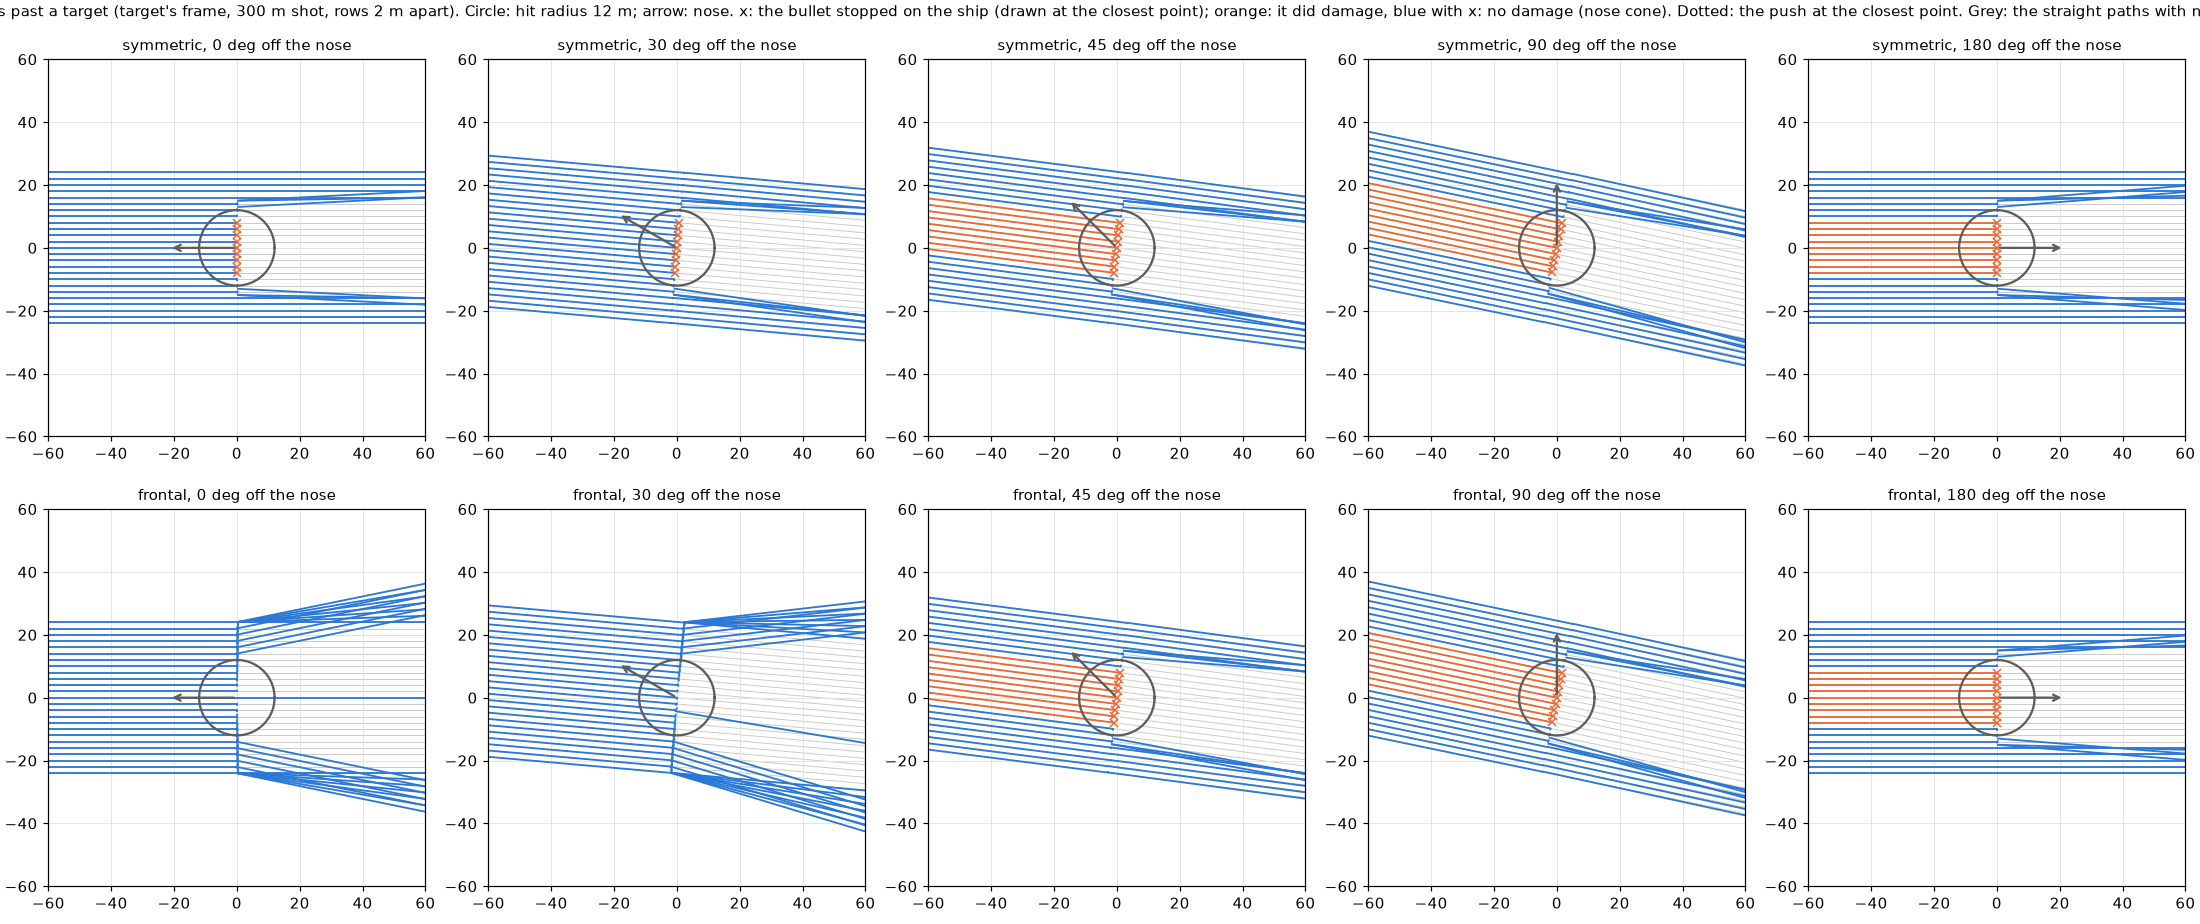
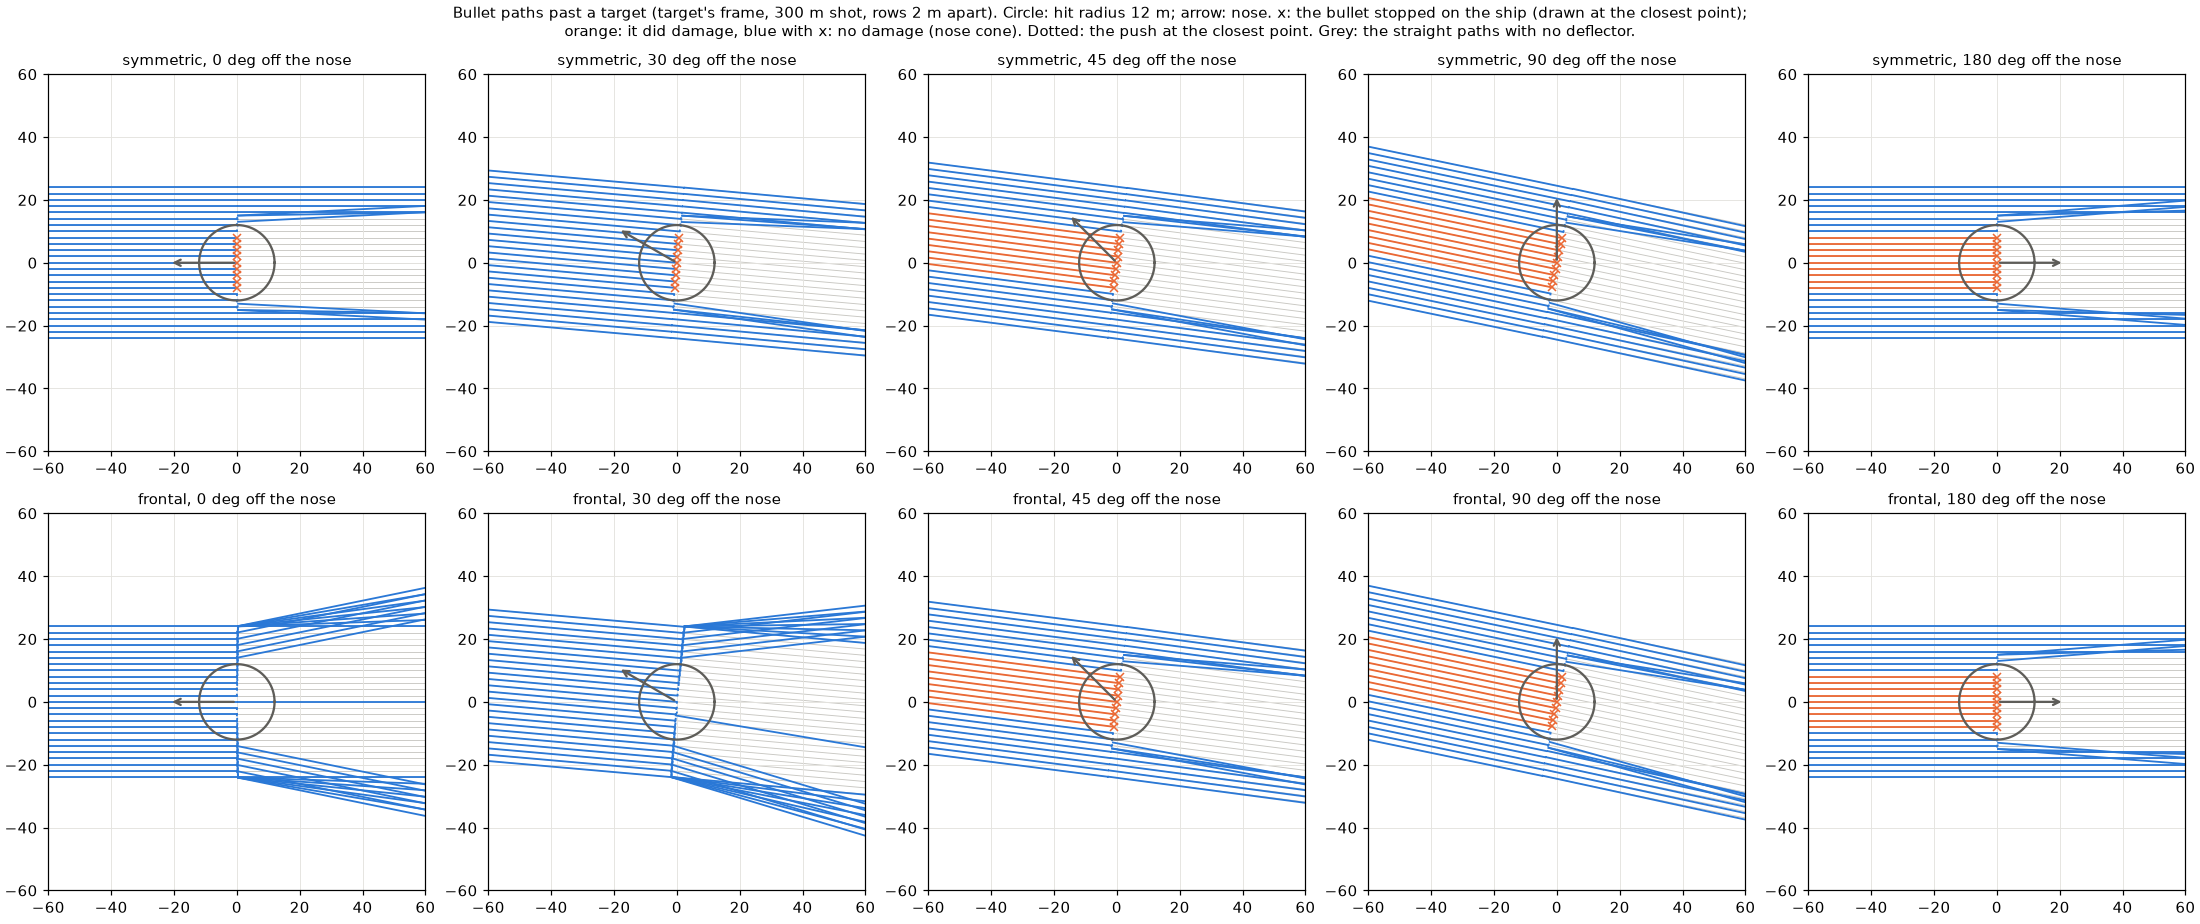
Deflector views: ruff

diff --git a/docs/rewrite/sections/bullet-deflector/deflector_views.py b/docs/rewrite/sections/bullet-deflector/deflector_views.py
@@ -216,7 +216,9 @@ def stream_figure(path: Path) -> None:
             ax.grid(True, color="#e4e3df", lw=0.6)
     fig.suptitle(
         "Bullet paths past a target (target's frame, 300 m shot, rows 2 m apart). Circle: hit "
-        f"radius {radius:g} m; arrow: nose. x: the bullet stopped on the ship (drawn at the closest point); orange: it did damage, blue with x: no damage (nose cone). "
+        f"radius {radius:g} m; arrow: nose. "
+        "x: the bullet stopped on the ship (drawn at the closest point);\n"
+        "orange: it did damage, blue with x: no damage (nose cone). "
         "Dotted: the push at the closest point. Grey: the straight paths with no deflector.",
         fontsize=10,
     )
